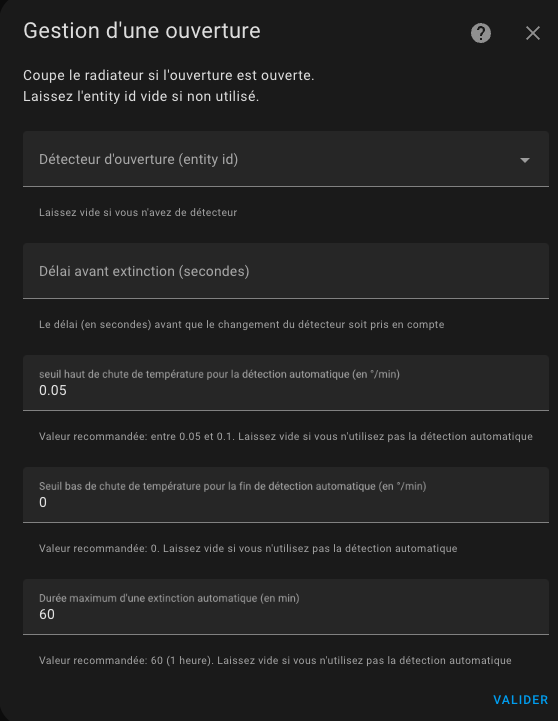
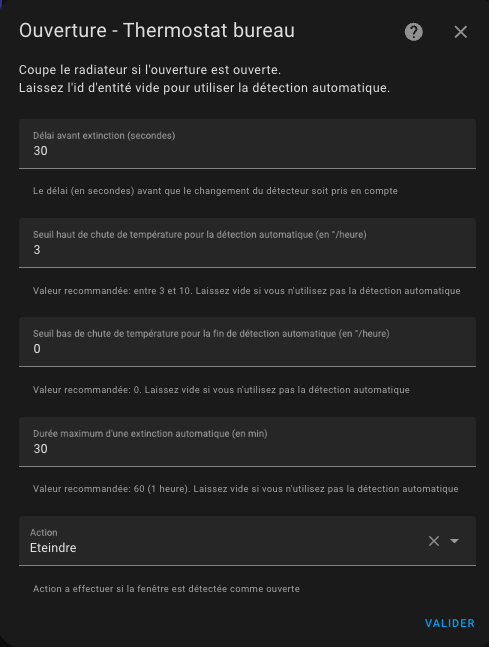
Documentation ++

diff --git a/documentation/fr/feature-window.md b/documentation/fr/feature-window.md
@@ -1,40 +1,61 @@
 # La détection d'ouverture - portes/fenêtres
 
-## Configurer les portes/fenêtres en allumant/éteignant les thermostats
+- [La détection d'ouverture - portes/fenêtres](#la-détection-douverture---portesfenêtres)
+  - [Le mode capteur](#le-mode-capteur)
+  - [Le mode auto](#le-mode-auto)
 
 Vous devez avoir choisi la fonctionnalité ```Avec détection des ouvertures``` dans la première page pour arriver sur cette page.
-La détecttion des ouvertures peut se faire de 2 manières:
+La détection des ouvertures peut se faire de 2 manières:
 1. soit avec un capteur placé sur l'ouverture (mode capteur),
 2. soit en détectant une chute brutale de température (mode auto)
 
-### Le mode capteur
-En mode capteur, vous devez renseigner les informations suivantes:
-![image](images/config-window-sensor.png)
+La configuration de la détection d'ouverture est la suivante :
 
-1. un identifiant d'entité d'un **capteur de fenêtre/porte**. Cela devrait être un binary_sensor ou un input_boolean. L'état de l'entité doit être 'on' lorsque la fenêtre est ouverte ou 'off' lorsqu'elle est fermée
-2. un **délai en secondes** avant tout changement. Cela permet d'ouvrir rapidement une fenêtre sans arrêter le chauffage.
+![image](images/config-window-main.png)
 
+## Le mode capteur
+Pour passer en mode capteur, vous devez donner une entité de type `binary_sensor` ou `input_boolean`.
+Dans ce mode, vous devez renseigner les informations suivantes:
 
-### Le mode auto
+![mode window capteur](images/config-window-sensor.png)
+
+1. un **délai en secondes** avant tout changement. Cela permet d'ouvrir rapidement une fenêtre sans arrêter le chauffage,
+2. l'action a réaliser lorsque l'ouverture est détectée ouverte. Les actions possibles sont :
+   1. _Eteindre_ : le VTherm sera étient,
+   2. _Ventilateur seul_ : le chauffage ou refroidissement sera coupé mais l'équipement continuera à ventiler (pour les équipements compatibles),
+   3. _Hors gel_ : le preset 'Hors Gel' sera alors sélectionné sur le _VTherm_,
+   4. _Eco_ : le preset _Eco_ sera appliqué sur le _VTherm_.
+
+Lorsque le détecteur passe à ouvert :
+1. _VTherm_ attend le délai indiqué,
+2. si l'ouverture est toujours ouverte au bout du délai, l'état du _VTherm_ est mémorisée (mode Chauffe / Froid / ..., preset courant, temperature de consigne courante) et l'action est réalisée
+
+Pareil, lorsque le détecteur passe à fermé :
+1. _VTherm_ attend le délai indiqué,
+2. si l'ouverture est toujours fermée au bout du délai, l'état avant ouverture mémorisé est restauré.
+
+## Le mode auto
 En mode auto, la configuration est la suivante:
 ![image](images/config-window-auto.png)
 
-1. un seuil de détection en degré par minute. Lorsque la température chute au delà de ce seuil, le thermostat s'éteindra. Plus cette valeur est faible et plus la détection sera rapide (en contre-partie d'un risque de faux positif),
-2. un seuil de fin de détection en degré par minute. Lorsque la chute de température repassera au-dessus cette valeur, le thermostat se remettra dans le mode précédent (mode et preset),
-3. une durée maximale de détection. Au delà de cette durée, le thermostat se remettra dans son mode et preset précédent même si la température continue de chuter.
+1. un **délai en secondes** avant tout changement. Cela permet d'ouvrir rapidement une fenêtre sans arrêter le chauffage,
+2. un seuil de détection en degré par heure. Lorsque la température chute au delà de ce seuil, le thermostat s'éteindra. Plus cette valeur est faible et plus la détection sera rapide (en contre-partie d'un risque de faux positif),
+3. un seuil de fin de détection en degré par heure. Lorsque la chute de température repassera au-dessus cette valeur, le thermostat se remettra dans le mode précédent (mode et preset),
+4. une durée maximale de détection. Au delà de cette durée, le thermostat se remettra dans son mode et preset précédent même si la température continue de chuter
+5. l'action a réaliser lorsque l'ouverture est détectée ouverte. Les actions sont les mêmes qu'en mode capteur décrit ci-dessus.
 
 Pour régler les seuils il est conseillé de commencer avec les valeurs de référence et d'ajuster les seuils de détection. Quelques essais m'ont donné les valeurs suivantes (pour un bureau):
-- seuil de détection : 0,05 °C/min
-- seuil de non détection: 0 °C/min
-- durée max : 60 min.
+- seuil de détection : 3 °C/heure
+- seuil de non détection: 0 °C/heure
+- durée max : 30 min.
 
-Un nouveau capteur "slope" a été ajouté pour tous les thermostats. Il donne la pente de la courbe de température en °C/min (ou °K/min). Cette pente est lissée et filtrée pour éviter les valeurs abérrantes des thermomètres qui viendraient pertuber la mesure.
+Un nouveau capteur nommé "slope" a été ajouté pour tous les thermostats. Il donne la pente de la courbe de température en °C/heure (ou °K/heure). Cette pente est lissée et filtrée pour éviter les valeurs abérrantes des thermomètres qui viendraient pertuber la mesure.
 ![image](images/temperature-slope.png)
 
 Pour bien régler il est conseillé d'affocher sur un même graphique historique la courbe de température et la pente de la courbe (le "slope") :
 ![image](images/window-auto-tuning.png)
 
-Et c'est tout ! votre thermostat s'éteindra lorsque les fenêtres seront ouvertes et se rallumera lorsqu'il sera fermé.
+Et c'est tout ! votre thermostat s'éteindra lorsque les fenêtres seront ouvertes et se rallumera lorsqu'il sera fermé (selon l'action sélectionnée).
 
 > ![Astuce](images/tips.png) _*Notes*_
 >  1. Si vous souhaitez utiliser **plusieurs capteurs de porte/fenêtre** pour automatiser votre thermostat, créez simplement un groupe avec le comportement habituel (https://www.home-assistant.io/integrations/binary_sensor.group/)

diff --git a/documentation/fr/over-climate.md b/documentation/fr/over-climate.md
@@ -7,7 +7,7 @@ L'installation doit ressembler à ça :
 
 1. L'utilisateur ou une automatisation ou le Sheduler programme une consigne (setpoint) par le biais d'un pre-réglage ou directement d'une température,
 2. régulièrement le thermomètre intérieur (2) ou extérieur (2b) ou interne à l'équipement (2c) envoie la température mesurée. Le thermomètre intérieur doit être placé à une place pertinente pour le ressenti de l'utilisateur : idéalement au milieu du lieu de vie. Evitez de le mettre trop près d'une fenêtre ou trop proche de l'équipement,
-3. avec les valeurs de consigne, des différents et les paramètres de l'auto-régulation (cf. TODO), VTherm va calculer une consigne qui sera envoyée à l'entité `climate` sous-jacentes,
+3. avec les valeurs de consigne, des différents et les paramètres de l'auto-régulation (cf. [auto-regulation](self-regulation.md)), VTherm va calculer une consigne qui sera envoyée à l'entité `climate` sous-jacentes,
 4. l'entité `climate` sous-jacente contrôle l'équipement avec son propre protocole,
 5. selon les options de régulation choisie le VTherm pourra potentiellement contrôler directement l'ouverture d'une vanne thermostatique ou calibrer l'équipement pour que sa température interne soit le reflet de la température de la pièce.
 
@@ -30,7 +30,7 @@ En mode `over_cliamte`, le device utilise son propre algorithme de régulation :
 
 Selon l'équipement cette régulation interne peut être plus ou moins bonne. Ca dépend beaucoup de la qualité de l'équipement, du fonctionnement de son thermomètre interne et de son algorithme interne. Pour améliorer les équipements qui régule mal, VTherm propose de tricher un peu sur la consigne qui lui est envoyée en augmentant ou diminuant celle-ci en fonction cette fois de la température de la pièce mesurée par VTherm et non plus de la température interne.
 
-Les choix d'auto-régulation sont décrits dans le détail ici (TODO).
+Les choix d'auto-régulation sont décrits dans le détail [ici](self-regulation.md).
 
 Afin d'éviter de trop solliciter l'équipement sous-jacent (certain font un bip désagréable, d'autres sont sur batterie, ...), deux seuils permettant de limiter le nombre de sollicitation sont proposés :
 1. le seuil de régulation : un seuil en ° en dessous duquel la nouvelle consigne ne sera pas envoyée. Si la dernière consigne était de 22°, alors la prochaine envoyée, sera de 22° +/- seuil de régulation,
@@ -75,4 +75,4 @@ Les fonctions spécifiques sont paramétrables avec une option dédiée du menu.
 
 Les fonctions spécifiques qui nécessite un paramétrage à ce type de VTherm sont :
 1. l'auto-start/stop : arrêt et démarrage automatique du VTherm selon la prévision d'usage. Elle est décrite ici fonction [auto-start/sop](feature-auto-start-stop.md),
-2. si la régulation par vanne est choisie, le paramétrage de l'algo TPI est accessible depuis le menu. cf (TODO TPI)
+2. si la régulation par vanne est choisie, le paramétrage de l'algo TPI est accessible depuis le menu. cf ([algorithmes](algorithms.md))

diff --git a/documentation/fr/base-attributes.md b/documentation/fr/base-attributes.md
@@ -30,11 +30,12 @@ Choisissez le menu "Fonctions".
 ![image](images/config-features.png)
 
 Les différentes fonctions que vous souhaitez utiliser pour ce VTherm :
-1. la détection d'ouvertures (portes, fenêtres) permettant de stopper le chauffage lorsque l'ouverture est ouverte. (f. TODO)
-2. la détection de mouvement : VTherm peut adapter une consigne de température lorsqu'un mouvement est détecté dans la pièce. (cf. TODO)
-3. la gestion de la puissance : VTherm peut stopper un équipement si la puissance consommée dans votre habitation dépasse un seuil. (cf TODO)
-4. la détection de présence : si vous avez un capteur indiquant une présence ou non dans votre habitation, vous pouvez l'utiliser pour changer la température de consigne. CF. TODO. Attention de ne pas confondre cette fonction avec la détection de mouvement. La présence est plus faite pour être à l'échelle de l'habitation alors que le mouvement est plus fait pour être à l'échelle de la pièce.
-5. l'arrêt/démarrage automatique : pour les VTherm de type `over_climate` uniquement. Cette fonction permet d'arrêter un équipement lorsque VTherm détete qu'il ne sera plus néessaire pendant un certain temps. Il utilise la courbe de température pour prévoir quand l'équipement sera de nouveau utile et le rallumera à ce moment là.
+1. la détection d'ouvertures (portes, fenêtres) permettant de stopper le chauffage lorsque l'ouverture est ouverte. (cf. [gestion des ouvertures](feature-window.md))
+2. la détection de mouvement : VTherm peut adapter une consigne de température lorsqu'un mouvement est détecté dans la pièce. (cf. [détection du mouvement](feature-motion.md))
+3. la gestion de la puissance : VTherm peut stopper un équipement si la puissance consommée dans votre habitation dépasse un seuil. (cf. [gestion du délestage](feature-power.md))
+4. la détection de présence : si vous avez un capteur indiquant une présence ou non dans votre habitation, vous pouvez l'utiliser pour changer la température de consigne. Cf. [gestion de la présence](feature-presence.md). Attention de ne pas confondre cette fonction avec la détection de mouvement. La présence est plus faite pour être à l'échelle de l'habitation alors que le mouvement est plus fait pour être à l'échelle de la pièce.
+5. l'arrêt/démarrage automatique : pour les VTherm de type `over_climate` uniquement. Cette fonction permet d'arrêter un équipement lorsque VTherm détete qu'il ne sera plus néessaire pendant un certain temps. Il utilise la courbe de température pour prévoir quand l'équipement sera de nouveau utile et le rallumera à ce moment là. Cf. [gestion de l'arrêt/démarrage automatique](feature-auto-start-stop.md)
+
 
 > ![Astuce](images/tips.png) _*Notes*_
 > 1. La liste des fonctions disponibles s'adapte à votre type de VTherm.

diff --git a/documentation/fr/feature-advanced.md b/documentation/fr/feature-advanced.md
@@ -1,5 +1,10 @@
 # La configuration avancée
 
+- [La configuration avancée](#la-configuration-avancée)
+  - [Configuration avancée](#configuration-avancée)
+  - [La mise en sécurité](#la-mise-en-sécurité)
+
+
 ## Configuration avancée
 
 Ces paramètres permettent d'affiner le réglage du thermostat.
@@ -8,6 +13,8 @@ Le formulaire de configuration avancée est le suivant :
 ![image](images/config-advanced.png)
 
 Le premier délai (minimal_activation_delay_sec) en secondes est le délai minimum acceptable pour allumer le chauffage. Lorsque le calcul donne un délai de mise sous tension inférieur à cette valeur, le chauffage reste éteint.
+
+## La mise en sécurité
 
 Le deuxième délai (``security_delay_min``) est le délai maximal entre deux mesures de température avant de régler le préréglage sur ``security``. Si le capteur de température ne donne plus de mesures de température, le thermostat et le radiateur passeront en mode ``security`` après ce délai. Ceci est utile pour éviter une surchauffe si la batterie de votre capteur de température est trop faible.
 
@@ -18,7 +25,7 @@ Le quatrième param§tre (``security_default_on_percent``) est la valeur de ``on
 
 Note: les paramètres `security_min_on_percent` et `security_default_on_percent` ne s'applique pas aux VTherms `over_climate`.
 
-Depuis la version 5.3 il est possible de désactiver la mise en sécurité suite à une absence de données du thermomètre extérieure. En effet, celui-ci ayant la plupart du temps un impact faible sur la régulation (dépendant de votre paramètrage), il est possible qu'il soit absent sans mettre en danger le logement. Pour cela, il faut ajouter les lignes suivantes dans votre `configuration.yaml` :
+Il est possible de désactiver la mise en sécurité suite à une absence de données du thermomètre extérieure. En effet, celui-ci ayant la plupart du temps un impact faible sur la régulation (dépendant de votre paramètrage), il est possible qu'il soit absent sans mettre en danger le logement. Pour cela, il faut ajouter les lignes suivantes dans votre `configuration.yaml` :
 ```
 versatile_thermostat:
 ...
@@ -34,4 +41,4 @@ Voir [exemple de réglages](#examples-tuning) pour avoir des exemples de réglag
 > 2. Attention, deux températures sont nécessaires : la température interne et la température externe et chacune doit donner la température, sinon le thermostat sera en préréglage "security",
 > 3. Un service est disponible qui permet de régler les 3 paramètres de sécurité. Ca peut servir à adapter la fonction de sécurité à votre usage,
 > 4. Pour un usage naturel, le ``security_default_on_percent`` doit être inférieur à ``security_min_on_percent``,
-> 5. Les thermostats de type ``thermostat_over_climate`` ne sont pas concernés par le mode security.
+

diff --git a/documentation/fr/presentation.md b/documentation/fr/presentation.md
@@ -28,13 +28,16 @@ Ce composant nommé __Versatile thermostat__ gère les cas d'utilisation suivant
 - Configuration via l'interface graphique d'intégration standard (à l'aide du flux Config Entry),
 - Utilisations complètes du **mode préréglages**,
 - Désactiver le mode préréglé lorsque la température est **définie manuellement** sur un thermostat,
-- Éteindre/allumer un thermostat lorsqu'une **porte ou des fenêtres sont ouvertes/fermées** après un certain délai,
+- Éteindre/allumer un thermostat ou chager de preset lorsqu'une **porte ou des fenêtres sont ouvertes/fermées** après un certain délai,
 - Changer de preset lorsqu'une **activité est détectée** ou non dans une pièce pendant un temps défini,
 - Utiliser un algorithme **TPI (Time Proportional Interval)** grâce à l'algorithme [[Argonaute](https://forum.hacf.fr/u/argonaute/summary)] ,
 - Ajouter une **gestion de délestage** ou une régulation pour ne pas dépasser une puissance totale définie. Lorsque la puissance maximale est dépassée, un préréglage caché de « puissance » est défini sur l'entité climatique. Lorsque la puissance passe en dessous du maximum, le préréglage précédent est restauré.
-- La **gestion de la présence à domicile**. Cette fonctionnalité vous permet de modifier dynamiquement la température du préréglage en tenant compte d'un capteur de présence de votre maison.
-- Des **services pour interagir avec le thermostat** à partir d'autres intégrations : vous pouvez forcer la présence / la non-présence à l'aide d'un service, et vous pouvez modifier dynamiquement la température des préréglages et changer les paramètres de sécurité.
+- La **gestion de la présence à domicile**. Cette fonctionnalité vous permet de modifier dynamiquement la température du préréglage en tenant compte d'un capteur de présence de votre maison.
+- Des **actions pour interagir avec le thermostat** à partir d'autres intégrations : vous pouvez forcer la présence / la non-présence à l'aide d'un service, et vous pouvez modifier dynamiquement la température des préréglages et changer les paramètres de sécurité.
 - Ajouter des capteurs pour voir les états internes du thermostat,
 - Contrôle centralisé de tous les Versatile Thermostat pour les stopper tous, les passer tous en hors-gel, les forcer en mode Chauffage (l'hiver), les forcer en mode Climatisation (l'été).
 - Contrôle d'une chaudière centrale et des VTherm qui doivent contrôler cette chaudière.
+- Un arrêt démarrage automatique basé sur une prévision d'usage pour les `over_climate`.
+
+Toutes ces fonctions sont configurables de façon centralisée ou individuelle en fonction de vos besoins.
 

diff --git a/documentation/fr/additions.md b/documentation/fr/additions.md
@@ -1,5 +1,13 @@
 # Quelques compléments indispensables
 
+- [Quelques compléments indispensables](#quelques-compléments-indispensables)
+  - [Bien mieux avec le Versatile Thermostat UI Card](#bien-mieux-avec-le-versatile-thermostat-ui-card)
+  - [Encore mieux avec le composant Scheduler !](#encore-mieux-avec-le-composant-scheduler-)
+  - [Encore bien mieux avec la custom:simple-thermostat front integration](#encore-bien-mieux-avec-la-customsimple-thermostat-front-integration)
+  - [Toujours mieux avec Plotly pour régler votre thermostat](#toujours-mieux-avec-plotly-pour-régler-votre-thermostat)
+  - [Et toujours de mieux en mieux avec l'AappDaemon NOTIFIER pour notifier les évènements](#et-toujours-de-mieux-en-mieux-avec-laappdaemon-notifier-pour-notifier-les-évènements)
+
+
 ## Bien mieux avec le Versatile Thermostat UI Card
 Une carte spéciale pour le Versatile Thermostat a été développée (sur la base du Better Thermostat). Elle est dispo ici [Versatile Thermostat UI Card](https://github.com/jmcollin78/versatile-thermostat-ui-card) et propose une vision moderne de tous les status du VTherm :
 

diff --git a/documentation/fr/over-valve.md b/documentation/fr/over-valve.md
@@ -23,6 +23,7 @@ L'installation doit ressembler à celle pour le VTherm `over_switch` sauf que l'
 ## Configuration
 
 Cliquer sur l'option de menu "Sous-jacents" et vous allez avoir cette page de configuration :
+
 ![image](images/config-linked-entity2.png)
 
 ### les sous-jacents
